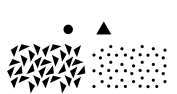
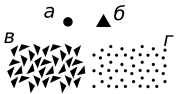
up

diff --git a/pages/symbols.md b/pages/symbols.md
@@ -8,10 +8,10 @@ permalink: /uz/
 ------
 
 |---|---|
-|![]({{ "assets/img/uz/r1.png" | relative_url }})| - горизонталь,<br/>- утолщённая горизонталь,<br/>- вспомогательная горизонталь |
+|![]({{ "assets/img/uz/r1.png" | relative_url }})| а - горизонталь,<br/>б - утолщённая горизонталь,<br/>в - вспомогательная горизонталь,<br/>г - бергштрих |
 |![]({{ "assets/img/uz/r2.png" | relative_url }})| - грунтовый обрыв |
-|![]({{ "assets/img/uz/r3.png" | relative_url }})| - земляной вал (высота > 2 м),<br/>- невысокий земляной вал (1...2 м) |
-|![]({{ "assets/img/uz/r4.png" | relative_url }})| - |
+|![]({{ "assets/img/uz/r3.png" | relative_url }})| а - земляной вал (высота > 2 м),<br/>б - невысокий земляной вал (1...2 м) |
+|![]({{ "assets/img/uz/r4.png" | relative_url }})| а - промоина на склоне,<br/>б - ров, неглубокая промоина |
 |![]({{ "assets/img/uz/r5.png" | relative_url }})| - |
 |![]({{ "assets/img/uz/r6.png" | relative_url }})| - |
 
